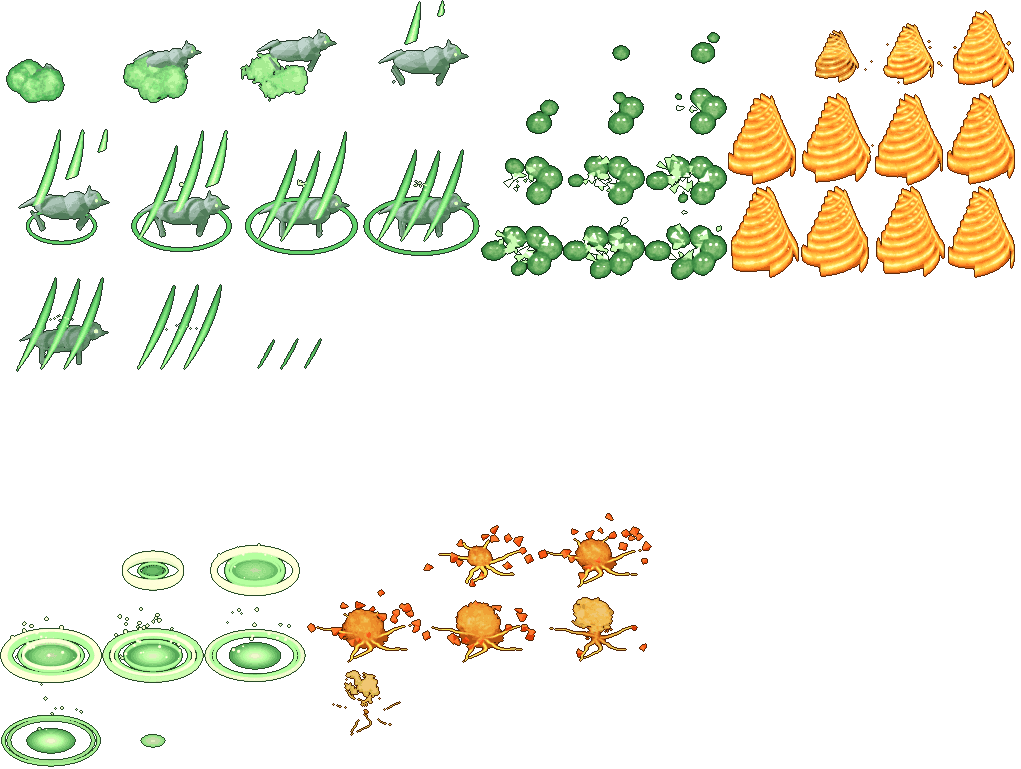
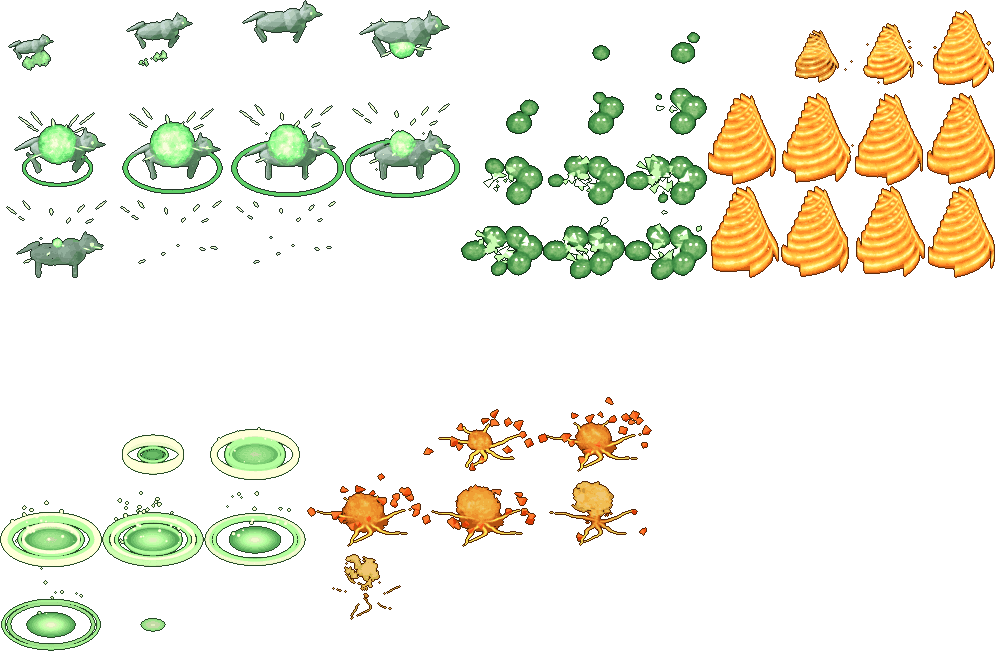
ULT-AUDIT batch 5: the beast clear of its smoke; the line from the caster seen; the note and sheets
Claude-Session: https://claude.ai/code/session_01RRJtWnKv3aqtC5Z8HqXpVz

diff --git a/src/render/blenderFxData.ts b/src/render/blenderFxData.ts
@@ -7,7 +7,7 @@ import type { BfxClip } from './blenderFxRules';
 export const BFX_DENSITY = 45;
 export const BFX_GLOW_SHRINK = 4;
 /** The hard pixel atlases' sizes, then the soft glow atlases' (`px-<n>.webp`, `soft-<n>.webp`). */
-export const BFX_PX: readonly (readonly [number, number])[] = [[2041, 2022], [1992, 694], [1088, 1104], [808, 1016], [822, 600], [949, 890], [217, 241], [1015, 806], [1137, 1385], [1021, 769], [903, 975], [1007, 966], [1016, 805], [584, 250], [1015, 996], [923, 903], [861, 944], [1176, 1280], [1516, 1280], [888, 522], [1137, 1405], [1008, 1200], [1021, 725], [929, 910], [617, 259], [1264, 1028], [807, 605], [1023, 821], [919, 810], [874, 978], [277, 220], [754, 896], [882, 878], [1008, 881], [585, 509], [817, 1019], [901, 810], [980, 813], [802, 784], [858, 814], [286, 241], [1009, 950], [689, 569], [912, 1080], [881, 584], [891, 898], [271, 232], [897, 982], [578, 235], [987, 993], [289, 253], [1018, 1006], [313, 277], [781, 941], [855, 612], [943, 881], [906, 970], [1076, 1048], [938, 695], [983, 874], [271, 232], [984, 1048], [1011, 876], [995, 758], [1516, 1200], [1014, 639], [1137, 1400], [992, 767], [1516, 1200], [871, 926], [829, 809], [945, 614], [1020, 1011], [813, 223], [1018, 1022], [499, 136], [1024, 1018], [699, 226], [1012, 1015], [515, 145], [1019, 991], [492, 148], [1003, 1020], [428, 213], [1015, 1018], [429, 124], [1003, 1006], [960, 208], [1021, 1023], [473, 145], [1024, 1008], [650, 226]];
+export const BFX_PX: readonly (readonly [number, number])[] = [[2041, 2022], [1992, 694], [1088, 1104], [808, 1016], [822, 600], [949, 890], [217, 241], [1015, 806], [1137, 1385], [1001, 653], [903, 975], [1007, 966], [1016, 805], [584, 250], [1015, 996], [923, 903], [861, 944], [1176, 1280], [1516, 1280], [888, 522], [1137, 1405], [1008, 1200], [1021, 725], [929, 910], [617, 259], [1264, 1028], [807, 605], [1023, 821], [919, 810], [874, 978], [277, 220], [754, 896], [882, 878], [1008, 881], [585, 509], [817, 1019], [901, 810], [980, 813], [802, 784], [858, 814], [286, 241], [1009, 950], [689, 569], [912, 1080], [881, 584], [891, 898], [271, 232], [897, 982], [578, 235], [987, 993], [289, 253], [1018, 1006], [313, 277], [781, 941], [855, 612], [943, 881], [906, 970], [1076, 1048], [938, 695], [983, 874], [271, 232], [984, 1048], [1011, 876], [995, 758], [1516, 1200], [1014, 639], [1137, 1400], [992, 767], [1516, 1200], [871, 926], [829, 809], [945, 614], [1020, 1011], [813, 223], [1018, 1022], [499, 136], [1024, 1018], [699, 226], [1012, 1015], [515, 145], [1019, 991], [492, 148], [1003, 1020], [428, 213], [1015, 1018], [429, 124], [1003, 1006], [960, 208], [1021, 1023], [473, 145], [1024, 1008], [650, 226]];
 export const BFX_SOFT: readonly (readonly [number, number])[] = [[2041, 1319]];
 /** The pixel atlases every fight may need (the spells, the ground loops): loaded up front. The rest are loaded when a fight needs them. */
 export const BFX_CORE: readonly number[] = [0, 1];
@@ -268,9 +268,9 @@ export const BFX_CLIPS: Readonly<Record<string, BfxClip>> = {
   'ult-barbarian-aftermath': {"a": 15, "x": 265, "y": 626, "w": 98, "h": 79, "n": 9, "cols": 3, "ax": 49.5, "ay": 53.6, "ms": 1500, "loop": false, "hold": 4, "layer": "over", "el": "blood", "cuts": [[0, 7], [1, 8]], "sc": ["crack", "motes"]},
   'ult-barbarian-strike': {"a": 14, "x": 0, "y": 0, "w": 265, "h": 199, "n": 13, "cols": 3, "ax": 132.5, "ay": 132.1, "ms": 1300, "loop": false, "hold": 7, "layer": "over", "el": "blood", "cuts": [[1, 12], [0, 8], [3, 12]], "sc": ["impact", "crack", "burst"]},
   'ult-barbarian-windup': {"a": 15, "x": 631, "y": 0, "w": 97, "h": 86, "n": 12, "cols": 3, "ax": 48.5, "ay": 61.6, "ms": 1600, "loop": false, "hold": 9, "layer": "over", "el": "blood", "cuts": [[0, 11], [3, 11]], "sc": ["flare", "shout"]},
-  'ult-beastmaster-aftermath': {"a": 9, "x": 0, "y": 513, "w": 102, "h": 85, "n": 9, "cols": 3, "ax": 51.0, "ay": 58.4, "ms": 2100, "loop": false, "hold": 4, "layer": "over", "el": "forest", "cuts": [[0, 7], [1, 8]], "sc": ["ring", "motes"]},
-  'ult-beastmaster-strike': {"a": 9, "x": 0, "y": 0, "w": 120, "h": 128, "n": 13, "cols": 4, "ax": 61.5, "ay": 98.9, "ms": 1300, "loop": false, "hold": 6, "layer": "over", "el": "forest", "cuts": [[0, 8], [3, 12]], "sc": ["beast", "claws"], "at": "each"},
-  'ult-beastmaster-windup': {"a": 9, "x": 481, "y": 0, "w": 82, "h": 70, "n": 12, "cols": 3, "ax": 44.5, "ay": 51.7, "ms": 2200, "loop": false, "hold": 10, "layer": "over", "el": "forest", "cuts": [[0, 11], [3, 11]], "sc": ["eyes", "swarm"]},
+  'ult-beastmaster-aftermath': {"a": 9, "x": 0, "y": 397, "w": 102, "h": 85, "n": 9, "cols": 3, "ax": 51.0, "ay": 58.4, "ms": 2100, "loop": false, "hold": 4, "layer": "over", "el": "forest", "cuts": [[0, 7], [1, 8]], "sc": ["ring", "motes"]},
+  'ult-beastmaster-strike': {"a": 9, "x": 0, "y": 0, "w": 115, "h": 99, "n": 13, "cols": 4, "ax": 57.5, "ay": 69.9, "ms": 1300, "loop": false, "hold": 6, "layer": "over", "el": "forest", "cuts": [[0, 8], [3, 12]], "sc": ["beast", "sparks"], "at": "each"},
+  'ult-beastmaster-windup': {"a": 9, "x": 461, "y": 0, "w": 82, "h": 70, "n": 12, "cols": 3, "ax": 44.5, "ay": 51.7, "ms": 2200, "loop": false, "hold": 10, "layer": "over", "el": "forest", "cuts": [[0, 11], [3, 11]], "sc": ["eyes", "swarm"]},
   'ult-bellWarden-aftermath': {"a": 59, "x": 551, "y": 573, "w": 104, "h": 84, "n": 9, "cols": 3, "ax": 52.0, "ay": 57.4, "ms": 1700, "loop": false, "hold": 3, "layer": "over", "el": "shadow", "cuts": [[0, 7], [1, 8]], "sc": ["ring", "veil"]},
   'ult-bellWarden-strike': {"a": 59, "x": 0, "y": 0, "w": 162, "h": 143, "n": 13, "cols": 4, "ax": 81.0, "ay": 101.6, "ms": 1300, "loop": false, "hold": 5, "layer": "over", "el": "shadow", "cuts": [[0, 8], [3, 12]], "sc": ["shout", "ring"], "at": "self"},
   'ult-bellWarden-windup': {"a": 59, "x": 0, "y": 573, "w": 89, "h": 75, "n": 12, "cols": 3, "ax": 44.5, "ay": 61.6, "ms": 1900, "loop": false, "hold": 8, "layer": "over", "el": "shadow", "cuts": [[0, 11], [4, 11]], "sc": ["shout", "crystal"]},
@@ -448,9 +448,9 @@ export const BFX_CLIPS: Readonly<Record<string, BfxClip>> = {
   'ult-werewolf-aftermath': {"a": 41, "x": 696, "y": 661, "w": 104, "h": 88, "n": 9, "cols": 3, "ax": 52.0, "ay": 61.2, "ms": 1700, "loop": false, "hold": 3, "layer": "over", "el": "blood", "cuts": [[0, 7], [1, 8]], "sc": ["ring", "souls"]},
   'ult-werewolf-strike': {"a": 41, "x": 0, "y": 0, "w": 170, "h": 165, "n": 13, "cols": 4, "ax": 85.0, "ay": 122.8, "ms": 1300, "loop": false, "hold": 6, "layer": "over", "el": "blood", "cuts": [[0, 8], [3, 12], [1, 11]], "sc": ["claws", "shout", "flare"], "at": "self"},
   'ult-werewolf-windup': {"a": 41, "x": 0, "y": 661, "w": 94, "h": 96, "n": 12, "cols": 4, "ax": 47.0, "ay": 71.0, "ms": 1900, "loop": false, "hold": 8, "layer": "over", "el": "blood", "cuts": [[0, 11], [3, 11], [6, 11]], "sc": ["ring", "shout", "claws"]},
-  'ult-wizard-aftermath': {"a": 9, "x": 307, "y": 513, "w": 115, "h": 75, "n": 9, "cols": 3, "ax": 59.5, "ay": 49.6, "ms": 1800, "loop": false, "hold": 4, "layer": "over", "el": "fire", "cuts": [[0, 7], [1, 8]], "sc": ["crack", "smoke"]},
+  'ult-wizard-aftermath': {"a": 9, "x": 307, "y": 397, "w": 115, "h": 75, "n": 9, "cols": 3, "ax": 59.5, "ay": 49.6, "ms": 1800, "loop": false, "hold": 4, "layer": "over", "el": "fire", "cuts": [[0, 7], [1, 8]], "sc": ["crack", "smoke"]},
   'ult-wizard-strike': {"a": 8, "x": 0, "y": 0, "w": 379, "h": 277, "n": 13, "cols": 3, "ax": 189.5, "ay": 183.0, "ms": 1300, "loop": false, "hold": 4, "layer": "over", "el": "fire", "cuts": [[1, 12], [0, 8], [3, 12]], "sc": ["impact", "burst", "crack"]},
-  'ult-wizard-windup': {"a": 9, "x": 728, "y": 0, "w": 73, "h": 93, "n": 12, "cols": 4, "ax": 35.5, "ay": 69.9, "ms": 2000, "loop": false, "hold": 8, "layer": "over", "el": "fire", "cuts": [[0, 11], [3, 11]], "sc": ["vortex", "flames"]},
+  'ult-wizard-windup': {"a": 9, "x": 708, "y": 0, "w": 73, "h": 93, "n": 12, "cols": 4, "ax": 35.5, "ay": 69.9, "ms": 2000, "loop": false, "hold": 8, "layer": "over", "el": "fire", "cuts": [[0, 11], [3, 11]], "sc": ["vortex", "flames"]},
   'ult-wolfBard-aftermath': {"a": 52, "x": 0, "y": 0, "w": 104, "h": 92, "n": 9, "cols": 3, "ax": 52.0, "ay": 65.2, "ms": 1700, "loop": false, "hold": 3, "layer": "over", "el": "wind", "cuts": [[0, 7], [1, 8]], "sc": ["ring", "spiral"]},
   'ult-wolfBard-strike': {"a": 51, "x": 0, "y": 0, "w": 162, "h": 143, "n": 13, "cols": 4, "ax": 81.0, "ay": 101.6, "ms": 1300, "loop": false, "hold": 4, "layer": "over", "el": "wind", "cuts": [[0, 8], [3, 12], [1, 11]], "sc": ["shout", "spiral", "ring"], "at": "self"},
   'ult-wolfBard-windup': {"a": 51, "x": 541, "y": 573, "w": 89, "h": 82, "n": 12, "cols": 3, "ax": 44.5, "ay": 61.6, "ms": 1900, "loop": false, "hold": 10, "layer": "over", "el": "wind", "cuts": [[0, 11], [2, 11]], "sc": ["shout", "motes"]},

diff --git a/test/ult-audit.test.ts b/test/ult-audit.test.ts
@@ -100,7 +100,7 @@ test('a strike on each one the ability touched finds them: the friends helped (a
   for (const kind of ['kunoichi', 'samurai', 'cleric', 'beastmaster']) assert.ok(!ultLinked(kind), kind);
   assert.ok(ULT_LINK_MS >= 100 && ULT_LINK_MS <= 400);
   // (what the abilities are: beasts bursting out where each is called, stone creeping over each foe, slabs along the wall's tiles, shields)
-  assert.deepEqual(BFX_CLIPS['ult-beastmaster-strike'].sc, ['beast', 'claws']);
+  assert.deepEqual(BFX_CLIPS['ult-beastmaster-strike'].sc, ['beast', 'sparks']);
   assert.deepEqual(BFX_CLIPS['ult-beastmaster-windup'].sc, ['eyes', 'swarm']);
   assert.deepEqual(BFX_CLIPS['ult-gorgon-strike'].sc, ['crystal', 'smoke']);
   assert.deepEqual(BFX_CLIPS['ult-gorgon-windup'].sc, ['vines', 'eye']);

diff --git a/tools/blender-fx/scenes.py b/tools/blender-fx/scenes.py
@@ -1669,7 +1669,7 @@ def spirits(c, r=1.2, n=4, tall=1.1, mode='circle', turns=0.5, hoop=True):
 
 # 56. Beast: a wolf's shape (a long body, a head and snout, two ears, four legs, a tail) bursting out of a puff of smoke in a leap,
 # across the camera's view, and landing. What is summoned, arriving.
-def beast(c, size=1.0, puffs=5):
+def beast(c, size=1.0, puffs=3):
     # (a wolf's own colours, whatever the element: grey fur, an amber eye; the smoke it bursts from and the ring it lands in are the
     # element's, the magic that called it)
     m, av = c.solid((0.36, 0.37, 0.42), (0.1, 0.1, 0.12), 0.5, 0.75, 0.0)
@@ -1717,10 +1717,11 @@ def beast(c, size=1.0, puffs=5):
         av.outputs[0].default_value = 1 - gone
         for o in (body, chest, head, snout, *ears, *legs, tail, eye):
             hide(o, t < 0.04 or gone >= 1)
-        cut.inputs[1].default_value = 0.15 + 0.7 * win(t, 0.1, 0.7)
+        # (a small puff, torn open at once: the beast is what is to be seen, not the smoke)
+        cut.inputs[1].default_value = 0.25 + 0.6 * win(t, 0.05, 0.45)
         for o, a, rad, sc in smoke_:
             q = win(t, 0, 0.7)
-            put(o, (-F[0] * 0.4 * s + math.cos(a) * rad * s * (0.4 + q), -F[1] * 0.4 * s + math.sin(a) * rad * s * (0.4 + q), 0.25 * s + 0.5 * s * q * sc), 0.42 * s * sc * (0.5 + 0.5 * ease(q)), (q, q * 0.5, a))
+            put(o, (-F[0] * 0.4 * s + math.cos(a) * rad * s * (0.4 + q), -F[1] * 0.4 * s + math.sin(a) * rad * s * (0.4 + q), 0.2 * s + 0.4 * s * q * sc), 0.24 * s * sc * (0.5 + 0.5 * ease(q)), (q, q * 0.5, a))
         put(ring, scale=(0.75 * s * (0.3 + 0.7 * ease(win(t, 0.5, 0.9))),) * 2 + (1,))
         rv.outputs[0].default_value = win(t, 0.5, 0.6) * (1 - win(t, 0.75, 1))
         hide(ring, t < 0.5)

diff --git a/tools/blender-fx/effects.py b/tools/blender-fx/effects.py
@@ -186,7 +186,7 @@ BIG = dict(
 ULTS = dict(
     vael=('shadow', 'arc', 'shockwave', 'burst'), astrax=('holy', 'rain', 'flames', 'sky'), ilyra=('holy', 'halo', 'dome', 'bless'),
     orrun=('forest', 'vines', 'dome', 'bless'), nyxara=('lightning', 'sigil', 'spiral', 'bless'), kunoichi=('shadow', 'cross', 'swarm', 'blinks'),
-    wizard=('fire', 'burst', 'crack', 'sky'), beastmaster=('forest', 'beast', 'claws', 'pack'), mercenary=('blood', 'cross', 'sparks', 'blinks'),
+    wizard=('fire', 'burst', 'crack', 'sky'), beastmaster=('forest', 'beast', 'sparks', 'pack'), mercenary=('blood', 'cross', 'sparks', 'blinks'),
     arcBlade=('lightning', 'bolt', 'cross', 'blinks'), samurai=('holy', 'arc', 'sparks', 'line'), lancer=('wind', 'trail', 'gust', 'line'),
     minotaur=('earth', 'crack', 'smoke', 'line'), barbarian=('blood', 'crack', 'burst', 'leap'), ninjaMonk=('wind', 'sparks', 'gust', 'blows'),
     buccaneer=('shadow', 'chains', 'cross', 'hooks'), archer=('wind', 'rain', 'ring', 'sky'), dreadPirate=('shadow', 'rain', 'burst', 'sky'),

diff --git a/docs/notes/ult-audit.md b/docs/notes/ult-audit.md
@@ -135,6 +135,21 @@ Found on the way, and not yet dealt with: under every "burst" and "bless" showca
 before the blow, a ring going out along the ground and a ring of small tongues (`call` and `nova`). They are a second sameness, in the
 showcase rather than in the stages, and belong with the next batch.
 
+## Batch 5: guardians a hero tall, a grey wolf, the line seen
+
+`docs/samples/blender-fx/audit-batch5-393.jpg` (the Beastmaster and the Cleric at the usual moments; under them the Gorgon and the
+Wanderer 60 to 700 ms after the blow with the moment's flash turned off, `EARLY=1 NOFLASH=1`) and `audit-batch5-beasts-393.jpg`.
+
+- **The guardians** are a full hero tall and thicker (a wider robe and hood, larger pauldrons, a stouter spear, a stronger glow). In
+  the fight frames they stand over the fighters round the Cleric and read at a phone's size.
+- **The beast** is a wolf in a wolf's colours whatever the element: grey fur, an amber eye. Only the puff it bursts from and the ring
+  it lands in are the element's green. The puff is smaller and torn open at once, and the claw marks that lay over it are gone (the
+  second scene is a spray of sparks where it lands). In the sheet several grey wolves can be seen leaping, a ring under each as it
+  lands. Still not as clear as it should be: the aftermath's green fume lies over them a moment later and tints them.
+- **The line from the caster is confirmed** for the Wanderer: with the flash off, a row of small gold flares runs out from her to a
+  friend, and the hearts and the halo rise there as it arrives. For the Gorgon I cannot pick her line out against the foes' own
+  effects in these frames; hers is the same code in her own colour.
+
 ## The audit of all 70
 
 To come, in batches: for each ultimate, what it does in the sim, what 0.499 showed, what main shows now, and the verdict; then the ten
